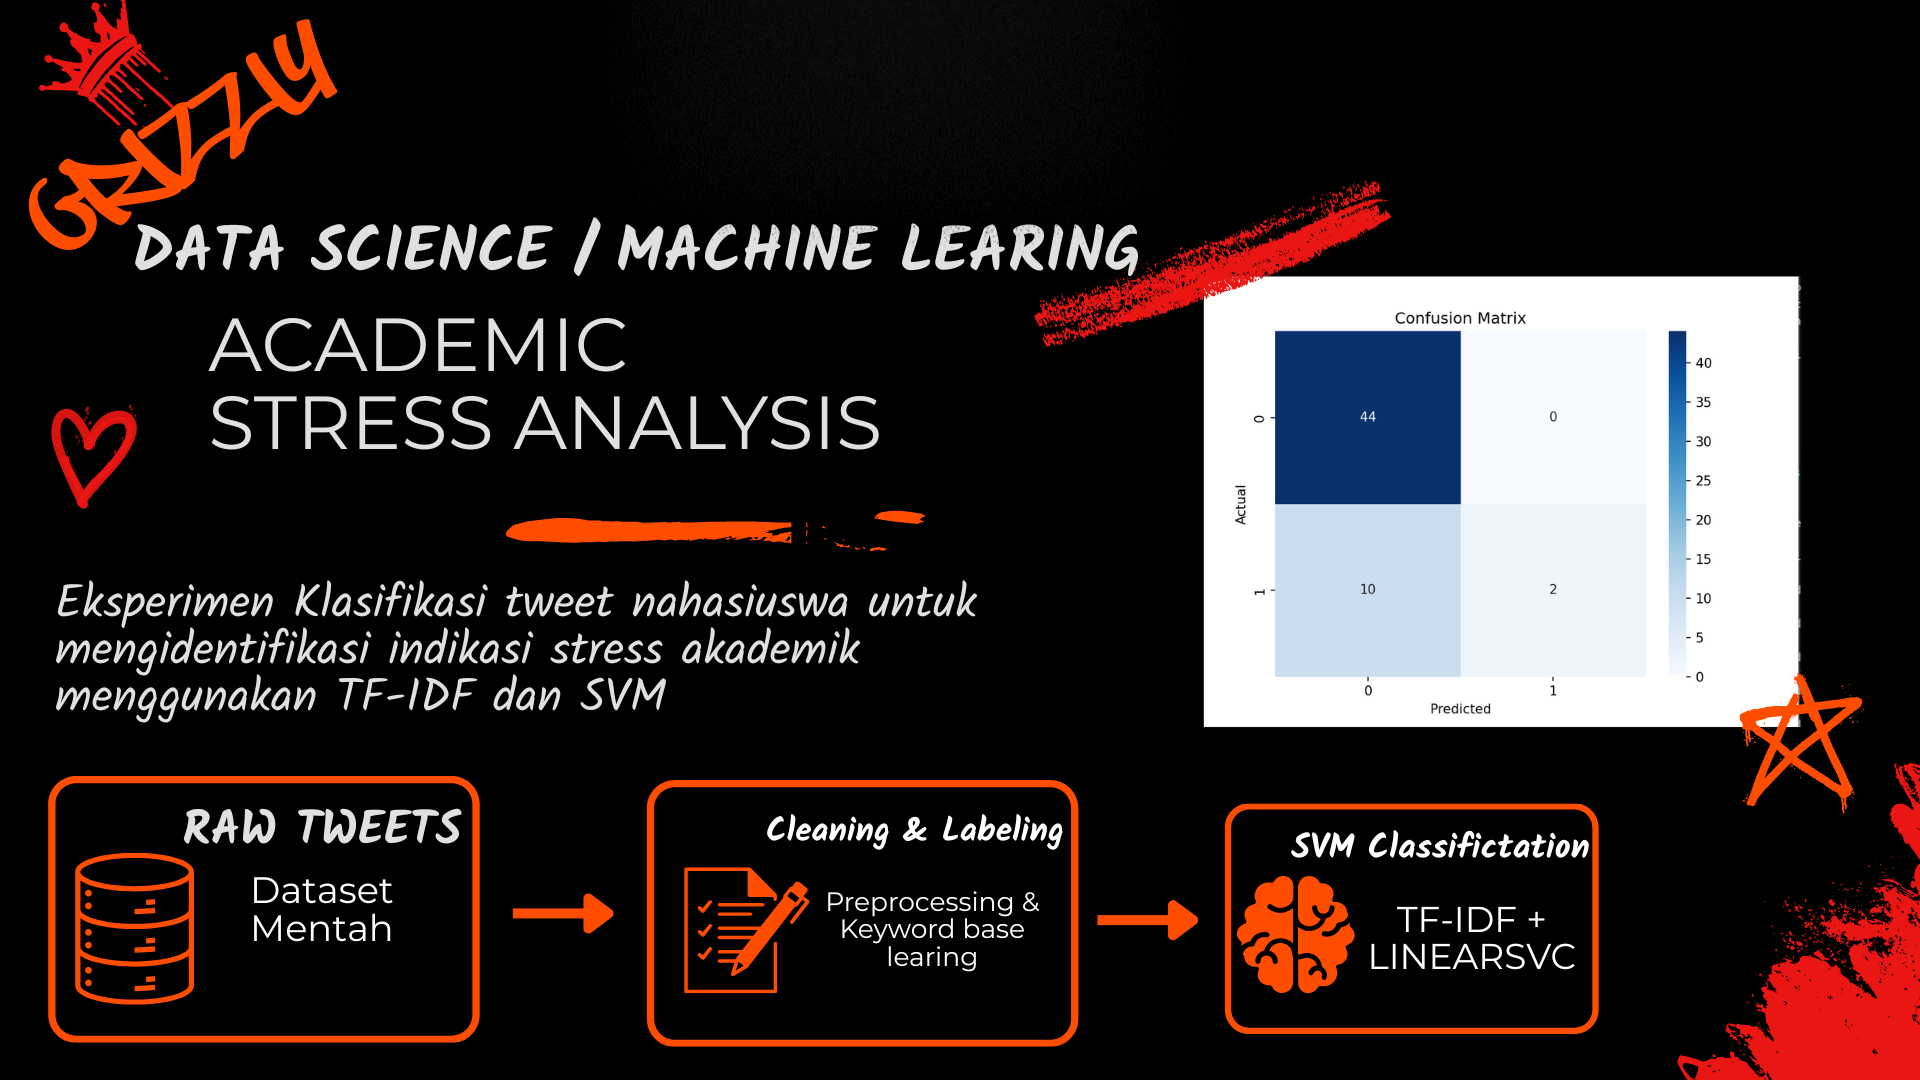
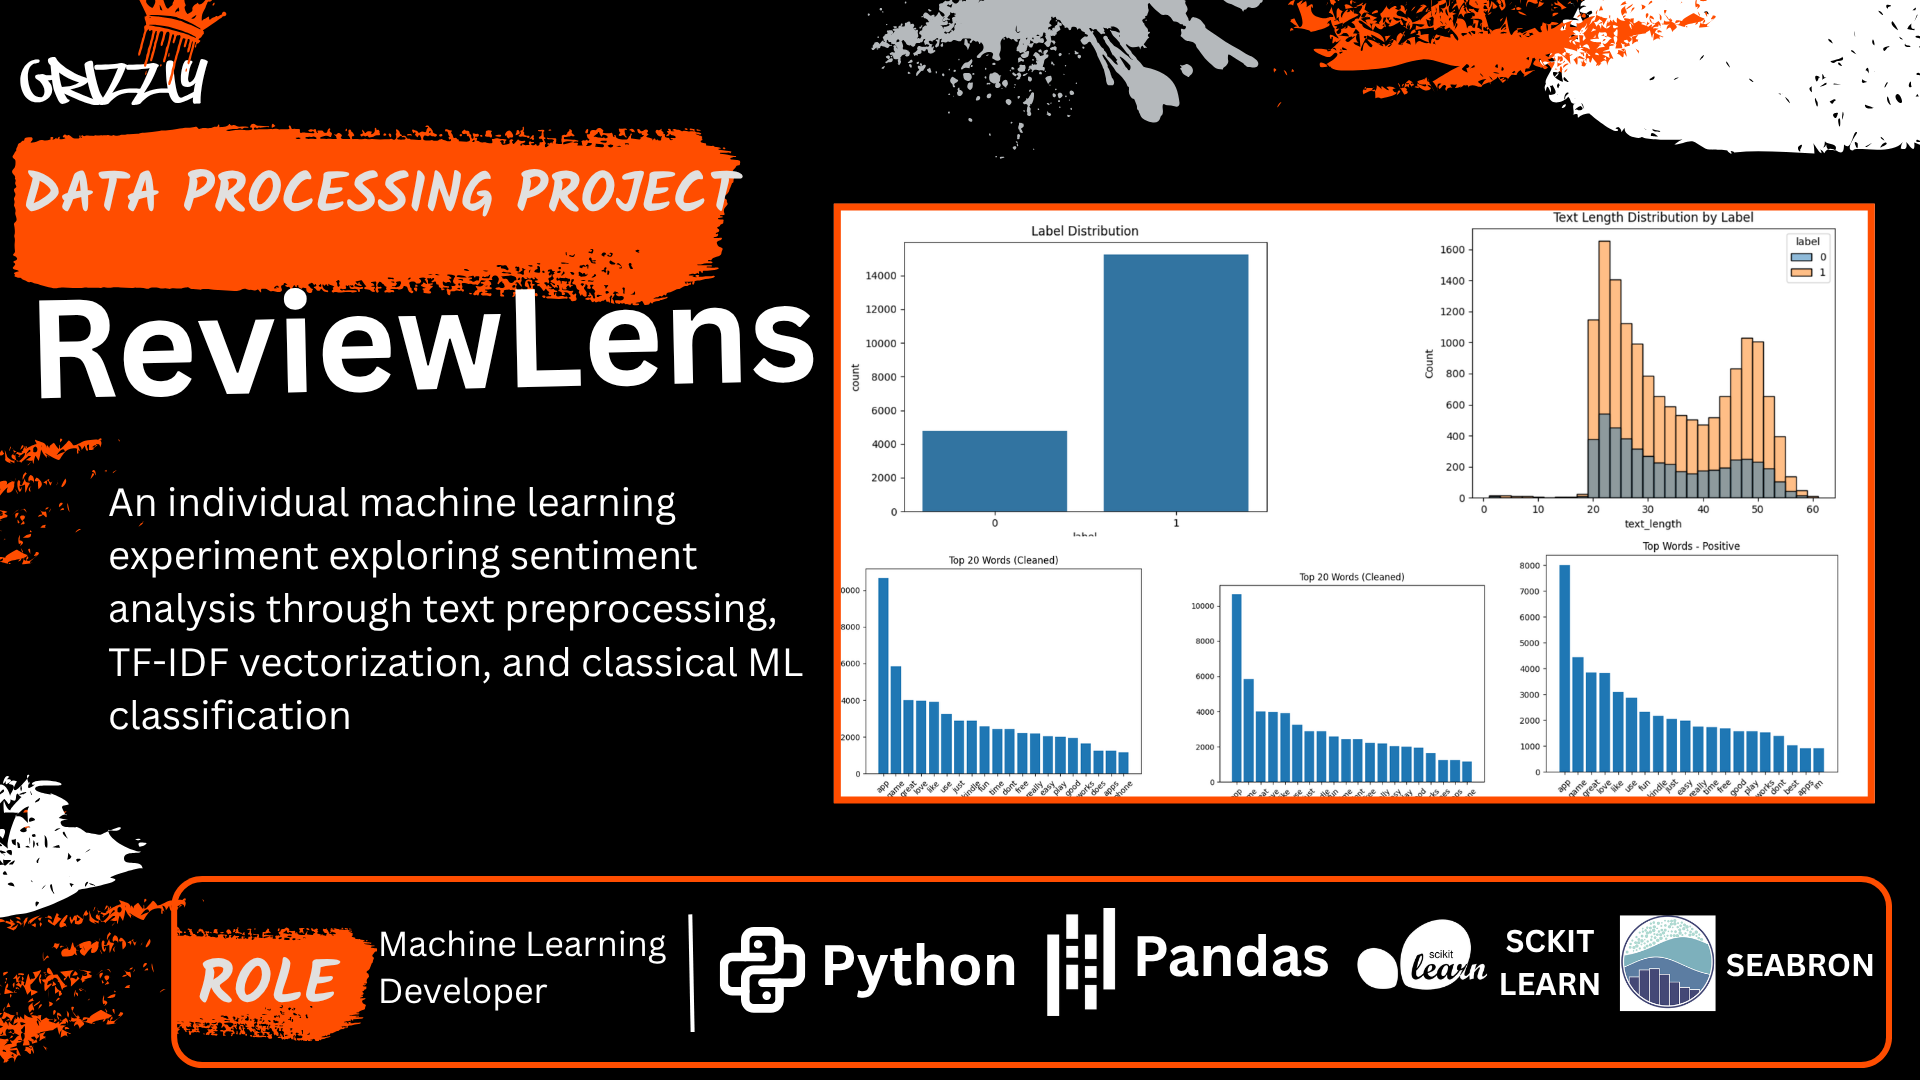
Refactor code structure for improved readability and maintainability

diff --git a/src/components/Projects/projectsData.js b/src/components/Projects/projectsData.js
@@ -24,7 +24,7 @@ export const PROJECTS = [
     type: 'Machine Learning / Data Science',
     role: 'Machine Learning Developer',
     year: '2026',
-    image: '/images/Thumbnail1.png',
+    image: '/images/Thumbnail2.png',
     alt: 'ReviewLens sentiment analysis visualization',
     href: null,
     placeholder: false,
@@ -35,42 +35,42 @@ export const PROJECTS = [
     type: ' Data Science / Machine Learning',
     role: 'Data Science Developerr',
     year: '2025',
-    image: '/images/Thumbnail2.png',
+    image: '/images/Thumbnail3.png',
     alt: 'Academic Stress Analysis dashboard',
     href: null,
     placeholder: false,
   },
   {
     id: 'project-03',
-    title: 'Nama Proyek 03',
-    type: 'TIPE PROYEK',
-    role: 'ROLE',
-    year: '20XX',
-    image: null,
-    alt: '',
+    title: 'SiLuPa ',
+    type: 'Web & AI integration',
+    role: 'Data Management & Processing',
+    year: '2024',
+    image: '/images/Thumbnail4.png',
+    alt: 'A collaborative rice storage management system evolving from a C++ application into a modern inventory platform with dashboard visualization and AI-powered data insights.',
     href: null,
-    placeholder: true,
+    placeholder: false,
   },
   {
     id: 'project-04',
-    title: 'Nama Proyek 04',
-    type: 'TIPE PROYEK',
-    role: 'ROLE',
-    year: '20XX',
-    image: null,
-    alt: '',
+    title: 'SIMORG',
+    type: 'Desktop Application',
+    role: 'Java Developer & Data Persistence',
+    year: '2024',
+    image: '/images/Thumbnail1.png',
+    alt: 'SINMORG is a desktop application designed to manage and organize data efficiently, providing users with a seamless experience in handling their information.',
     href: null,
-    placeholder: true,
+    placeholder: false,
   },
   {
     id: 'project-05',
-    title: 'Nama Proyek 05',
-    type: 'TIPE PROYEK',
-    role: 'ROLE',
-    year: '20XX',
-    image: null,
-    alt: '',
+    title: 'GRIZZLY',
+    type: 'WEB PORTFOLIO',
+    role: 'Web Developer',
+    year: '2026',
+    image: '/images/Thumbnail5.png',
+    alt: 'GRIZZLY is a modern web portfolio showcasing my skills and projects.',
     href: null,
-    placeholder: true,
+    placeholder: false,
   },
 ];

diff --git a/src/components/Projects/Projects.module.css b/src/components/Projects/Projects.module.css
@@ -363,24 +363,16 @@
   opacity: 1;
 }
 
-/* lingkaran VIEW di tepi kartu preview, supaya nama proyek tetap terbaca */
+/* lingkaran VIEW: lebih kecil, tanpa teks */
 .viewDot {
   position: absolute;
   top: 0;
   left: 0;
-  width: 84px;
-  height: 84px;
-  margin: -42px 0 0 22px; /* pusat lingkaran = tepi kiri kartu (64px dari kursor) */
-  display: grid;
-  place-items: center;
+  width: 56px;
+  height: 56px;
+  margin: -28px 0 0 18px; /* pusat lingkaran = tepi kiri kartu */
   border-radius: 50%;
   background: var(--hazard-orange);
-  color: var(--asphalt-black);
-  font-family: var(--font-body);
-  font-size: 0.68rem;
-  font-weight: 700;
-  letter-spacing: 0.2em;
-  text-transform: uppercase;
   transform: scale(0.6);
   transition: transform 0.3s cubic-bezier(0.2, 0.7, 0.2, 1);
   z-index: 2;
@@ -392,25 +384,25 @@
 
 /* kartu pindah ke kiri kursor: lingkaran ikut ke tepi kanan kartu */
 .floater[data-side='left'] .viewDot {
-  margin-left: -106px;
+  margin-left: -74px;
 }
 
-/* kartu preview: bahasa visual sama dengan foto di About */
+/* kartu preview: lebih kecil */
 .previewCard {
   position: absolute;
   top: 0;
   left: 0;
-  width: clamp(240px, 24vw, 380px);
-  aspect-ratio: 4 / 5;
-  transform: translate(64px, -50%) rotate(-2deg);
+
+  width: clamp(180px, 15vw, 240px);
+  aspect-ratio: 4 / 3;
+
+  transform: translate(48px, -50%) rotate(-2deg);
+
   background: var(--deep-charcoal);
   border: 1px solid rgba(243, 107, 53, 0.85);
-  box-shadow: 0 24px 60px rgba(0, 0, 0, 0.55);
-  overflow: hidden;
-}
+  box-shadow: 0 12px 30px rgba(0, 0, 0, 0.4);
 
-.floater[data-side='left'] .previewCard {
-  transform: translate(calc(-100% - 64px), -50%) rotate(2deg);
+  overflow: hidden;
 }
 
 .previewLayer {
@@ -424,8 +416,6 @@
   opacity: 1;
 }
 
-/* ---------- thumbnail dan placeholder ---------- */
-
 .thumb {
   position: relative;
   display: block;
@@ -434,16 +424,12 @@
 }
 
 .thumbImg {
-  position: absolute;
-  inset: 0;
   width: 100%;
   height: 100%;
-  object-fit: contain;
+  object-fit: cover;
   object-position: center;
-  background: var(--asphalt-black);
   display: block;
 }
-
 .placeholder {
   display: grid;
   place-items: center;

diff --git a/src/components/Projects/Projects.jsx b/src/components/Projects/Projects.jsx
@@ -239,11 +239,11 @@ const Projects = () => {
         data-side="right"
         aria-hidden="true"
       >
-        <span className={styles.viewDot}>View</span>
+        <span className={styles.viewDot} aria-hidden="true" />
         <div ref={cardRef} className={styles.previewCard}>
           {PROJECTS.map((p, i) => (
             <div key={p.id} className={styles.previewLayer} data-on={active === p.id}>
-              <Thumb project={p} index={i} />
+              <Thumb project={p} index={i} eager />
             </div>
           ))}
         </div>
@@ -253,11 +253,17 @@ const Projects = () => {
 };
 
 /* gambar preview, atau tile placeholder bila belum ada gambar */
-const Thumb = ({ project, index }) => {
+const Thumb = ({ project, index, eager = false }) => {
   if (project.image) {
     return (
       <span className={styles.thumb}>
-        <img src={project.image} alt={project.alt} loading="lazy" className={styles.thumbImg} />
+        <img
+          src={project.image}
+          alt={project.alt}
+          loading={eager ? 'eager' : 'lazy'}
+          decoding="async"
+          className={styles.thumbImg}
+        />
       </span>
     );
   }

diff --git a/src/App.jsx b/src/App.jsx
@@ -5,6 +5,7 @@ import About from "./components/About/About";
 import Projects from "./components/Projects/Projects";
 import Intro from "./components/intro/intro.jsx";
 
+
 function App() {
   return (
     <div className="app">
@@ -14,10 +15,9 @@ function App() {
         <Intro>
           <Hero />
         </Intro>
-
         <About />
-
         <Projects />
+       
 
         {/* Other sections will be added here */}
       </main>
